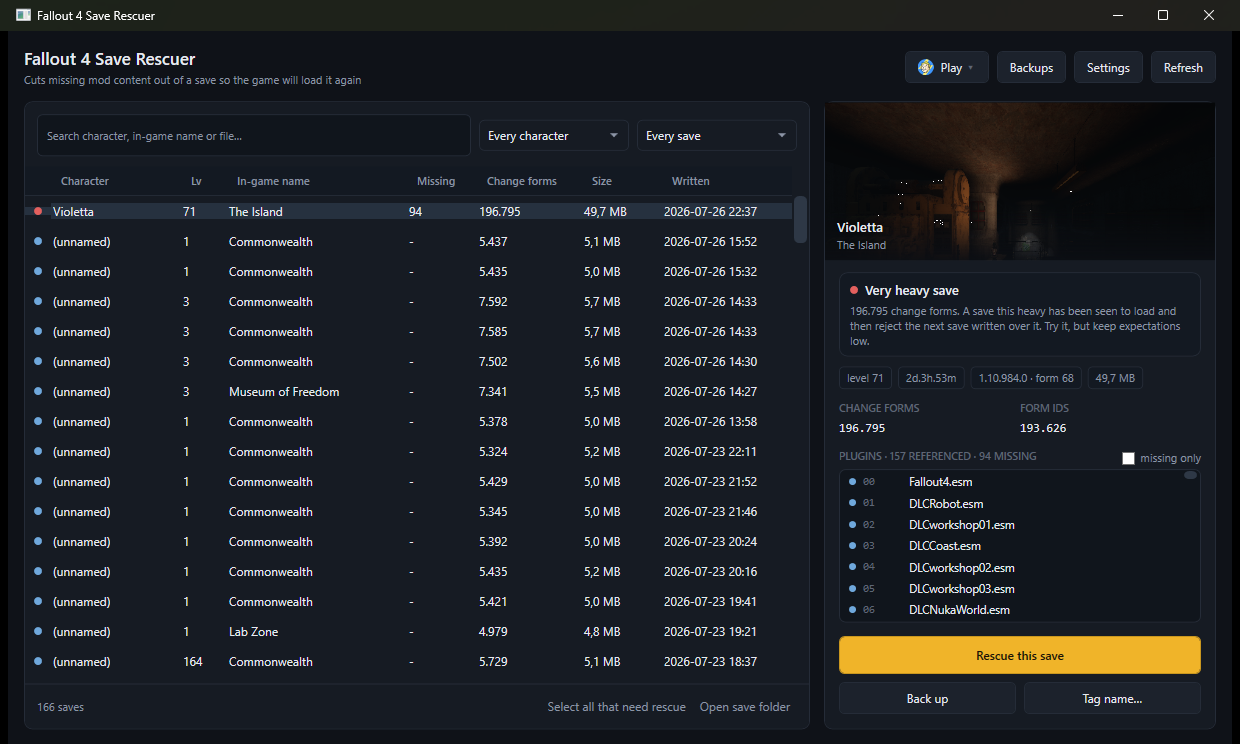
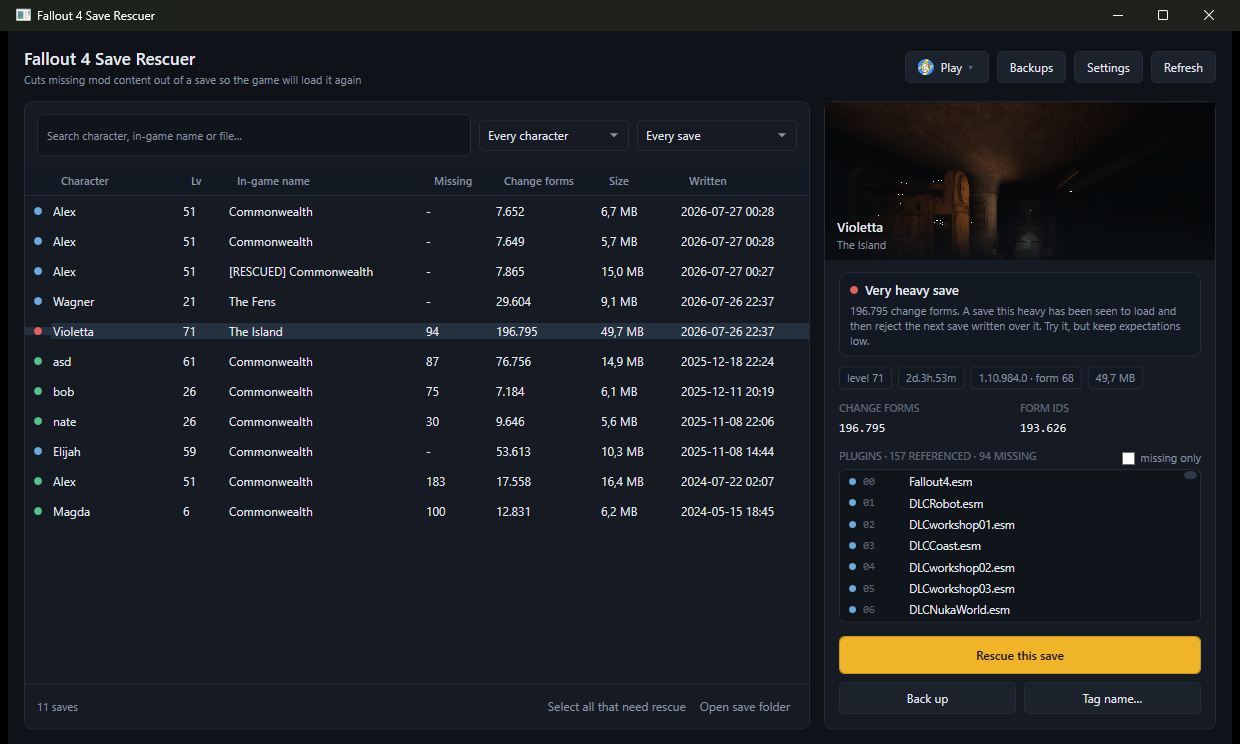
Prepare the first release
Changelog and release notes describe what the tool actually does; menu items in
the dark theme get their own template so they no longer show the stock light
icon gutter, and each launch entry carries the icon of the executable it starts.
Screenshot refreshed.

diff --git a/src/SaveRescuer.App/Theme.xaml b/src/SaveRescuer.App/Theme.xaml
@@ -273,17 +273,61 @@
         </Setter>
     </Style>
 
-    <!-- context menus -->
+    <!--
+      Context menus are templated rather than merely recoloured: the stock template keeps a light
+      gutter for icons and a light frame around the items whatever the brushes are set to.
+    -->
     <Style TargetType="ContextMenu">
-        <Setter Property="Background" Value="{StaticResource PanelRaised}" />
-        <Setter Property="BorderBrush" Value="{StaticResource Line}" />
         <Setter Property="Foreground" Value="{StaticResource Text}" />
-        <Setter Property="Padding" Value="2" />
+        <Setter Property="HasDropShadow" Value="True" />
+        <Setter Property="Template">
+            <Setter.Value>
+                <ControlTemplate TargetType="ContextMenu">
+                    <Border Background="{StaticResource PanelRaised}" BorderBrush="{StaticResource Line}"
+                            BorderThickness="1" CornerRadius="6" Padding="4" SnapsToDevicePixels="True">
+                        <StackPanel IsItemsHost="True" KeyboardNavigation.DirectionalNavigation="Cycle" />
+                    </Border>
+                </ControlTemplate>
+            </Setter.Value>
+        </Setter>
     </Style>
+
     <Style TargetType="MenuItem">
         <Setter Property="Foreground" Value="{StaticResource Text}" />
+        <Setter Property="Background" Value="Transparent" />
         <Setter Property="FontSize" Value="12" />
-        <Setter Property="Padding" Value="8,5" />
+        <Setter Property="Padding" Value="9,6" />
+        <Setter Property="Template">
+            <Setter.Value>
+                <ControlTemplate TargetType="MenuItem">
+                    <Border x:Name="Shell" Background="{TemplateBinding Background}" CornerRadius="4"
+                            Padding="{TemplateBinding Padding}" SnapsToDevicePixels="True">
+                        <Grid>
+                            <Grid.ColumnDefinitions>
+                                <ColumnDefinition Width="Auto" />
+                                <ColumnDefinition Width="*" />
+                            </Grid.ColumnDefinitions>
+                            <ContentPresenter x:Name="IconHost" Grid.Column="0" ContentSource="Icon"
+                                              Width="16" Height="16" Margin="0,0,9,0" VerticalAlignment="Center" />
+                            <ContentPresenter Grid.Column="1" ContentSource="Header" RecognizesAccessKey="True"
+                                              VerticalAlignment="Center" />
+                        </Grid>
+                    </Border>
+                    <ControlTemplate.Triggers>
+                        <Trigger Property="Icon" Value="{x:Null}">
+                            <!-- Hidden, not collapsed: entries without an icon keep their labels aligned. -->
+                            <Setter TargetName="IconHost" Property="Visibility" Value="Hidden" />
+                        </Trigger>
+                        <Trigger Property="IsHighlighted" Value="True">
+                            <Setter TargetName="Shell" Property="Background" Value="#26313F" />
+                        </Trigger>
+                        <Trigger Property="IsEnabled" Value="False">
+                            <Setter Property="Foreground" Value="{StaticResource TextFaint}" />
+                        </Trigger>
+                    </ControlTemplate.Triggers>
+                </ControlTemplate>
+            </Setter.Value>
+        </Setter>
     </Style>
 
     <Style TargetType="CheckBox">

diff --git a/src/SaveRescuer.App/MainWindow.xaml.cs b/src/SaveRescuer.App/MainWindow.xaml.cs
@@ -364,6 +364,9 @@ public partial class MainWindow : Window
         foreach (var option in options)
         {
             var item = new MenuItem { Header = option.DisplayName, Tag = option };
+            // Each entry carries the icon of the executable it starts, read from the file itself.
+            if (IconExtractor.FromExecutable(option.ExecutablePath) is { } icon)
+                item.Icon = new Image { Source = icon, Width = 16, Height = 16 };
             item.Click += (_, _) => Launch(option);
             menu.Items.Add(item);
         }

diff --git a/CHANGELOG.md b/CHANGELOG.md
@@ -1,16 +1,15 @@
 # Changelog
 
-## 2.0.0
+## 1.0.0
 
-The tool now rewrites the save instead of working around it. The 1.0 approach - generating empty
-placeholder plugins so the game would find every name the save listed - opened saves but left the
-session broken: saves written afterwards would not load. It has been removed entirely.
+First release.
 
-* Full save (`.fos`) parser and writer. An untouched save is rebuilt byte for byte, which is what
-  makes it safe to change one part of it and leave the rest alone.
-* Surgery: missing plugins come out of the save's plugin lists, form IDs are renumbered to the new
-  indices or cleared when their plugin is gone, and change records referring to cleared slots are
-  dropped. Form ID slot positions never move, because other sections index that array by position.
+* Full Fallout 4 save (`.fos`) parser and writer. An untouched save is rebuilt byte for byte,
+  which is what makes it safe to change one part of it and leave the rest alone.
+* Rescue: missing plugins are removed from the save's plugin lists, form IDs are renumbered to
+  their new indices or cleared when their plugin is gone, and change records referring to cleared
+  slots are dropped. Slot positions in the form ID array never move, because other sections of the
+  save index that array by position.
 * Every result is verified before it is offered: section layout, a complete walk of the change
   records, no reference to a cleared slot, no plugin index past the end of the list.
 * Rescued saves are written as new files in free manual slots, with the in-game name prefixed
@@ -19,17 +18,12 @@ session broken: saves written afterwards would not load. It has been removed ent
 * Vanilla mode strips every plugin outside the base game and its DLC, for load orders that cannot
   be reconstructed at all.
 * Backup vault: originals are copied outside the game's folder before anything is written, listed
-  with the character they belong to, and can be restored in place or elsewhere. Identical content
-  is stored once.
-* Save list reads a folder of saves without loading them whole, and shows what each is missing
-  along with a plain-language read on how the rescue is likely to go, based on the save's weight.
+  with the character they belong to, and restored in place or elsewhere on demand. Identical
+  content is stored once.
+* Save list reads a folder of saves without loading them whole, showing what each one is missing
+  and a plain-language read on how a rescue is likely to go, based on the save's weight.
 * Tag mode writes a copy whose load-menu name carries a tag with the contents untouched - useful
   for telling an original apart from a rescued one.
 * Batch: select several saves and work through them in one pass.
-* Interface reworked around the save list: search, character and status filters, the save's own
-  screenshot, per-plugin state, and the game launcher (script extender first when installed).
-
-## 1.0.0
-
-First release. Superseded by 2.0.0; the placeholder-plugin approach it was built on does not hold
-up in practice and is no longer part of the tool.
+* Game launcher, with the script extender preferred when it is installed.
+* Original save files are never written to.

diff --git a/README.md b/README.md
@@ -102,7 +102,7 @@ else rests on.
 
 ## Releases
 
-Pushing a tag such as `v2.0.0` builds and publishes a self-contained Windows executable through
+Pushing a tag such as `v1.0.0` builds and publishes a self-contained Windows executable through
 GitHub Actions; see `.github/workflows/release.yml`.
 
 ## Limitations
